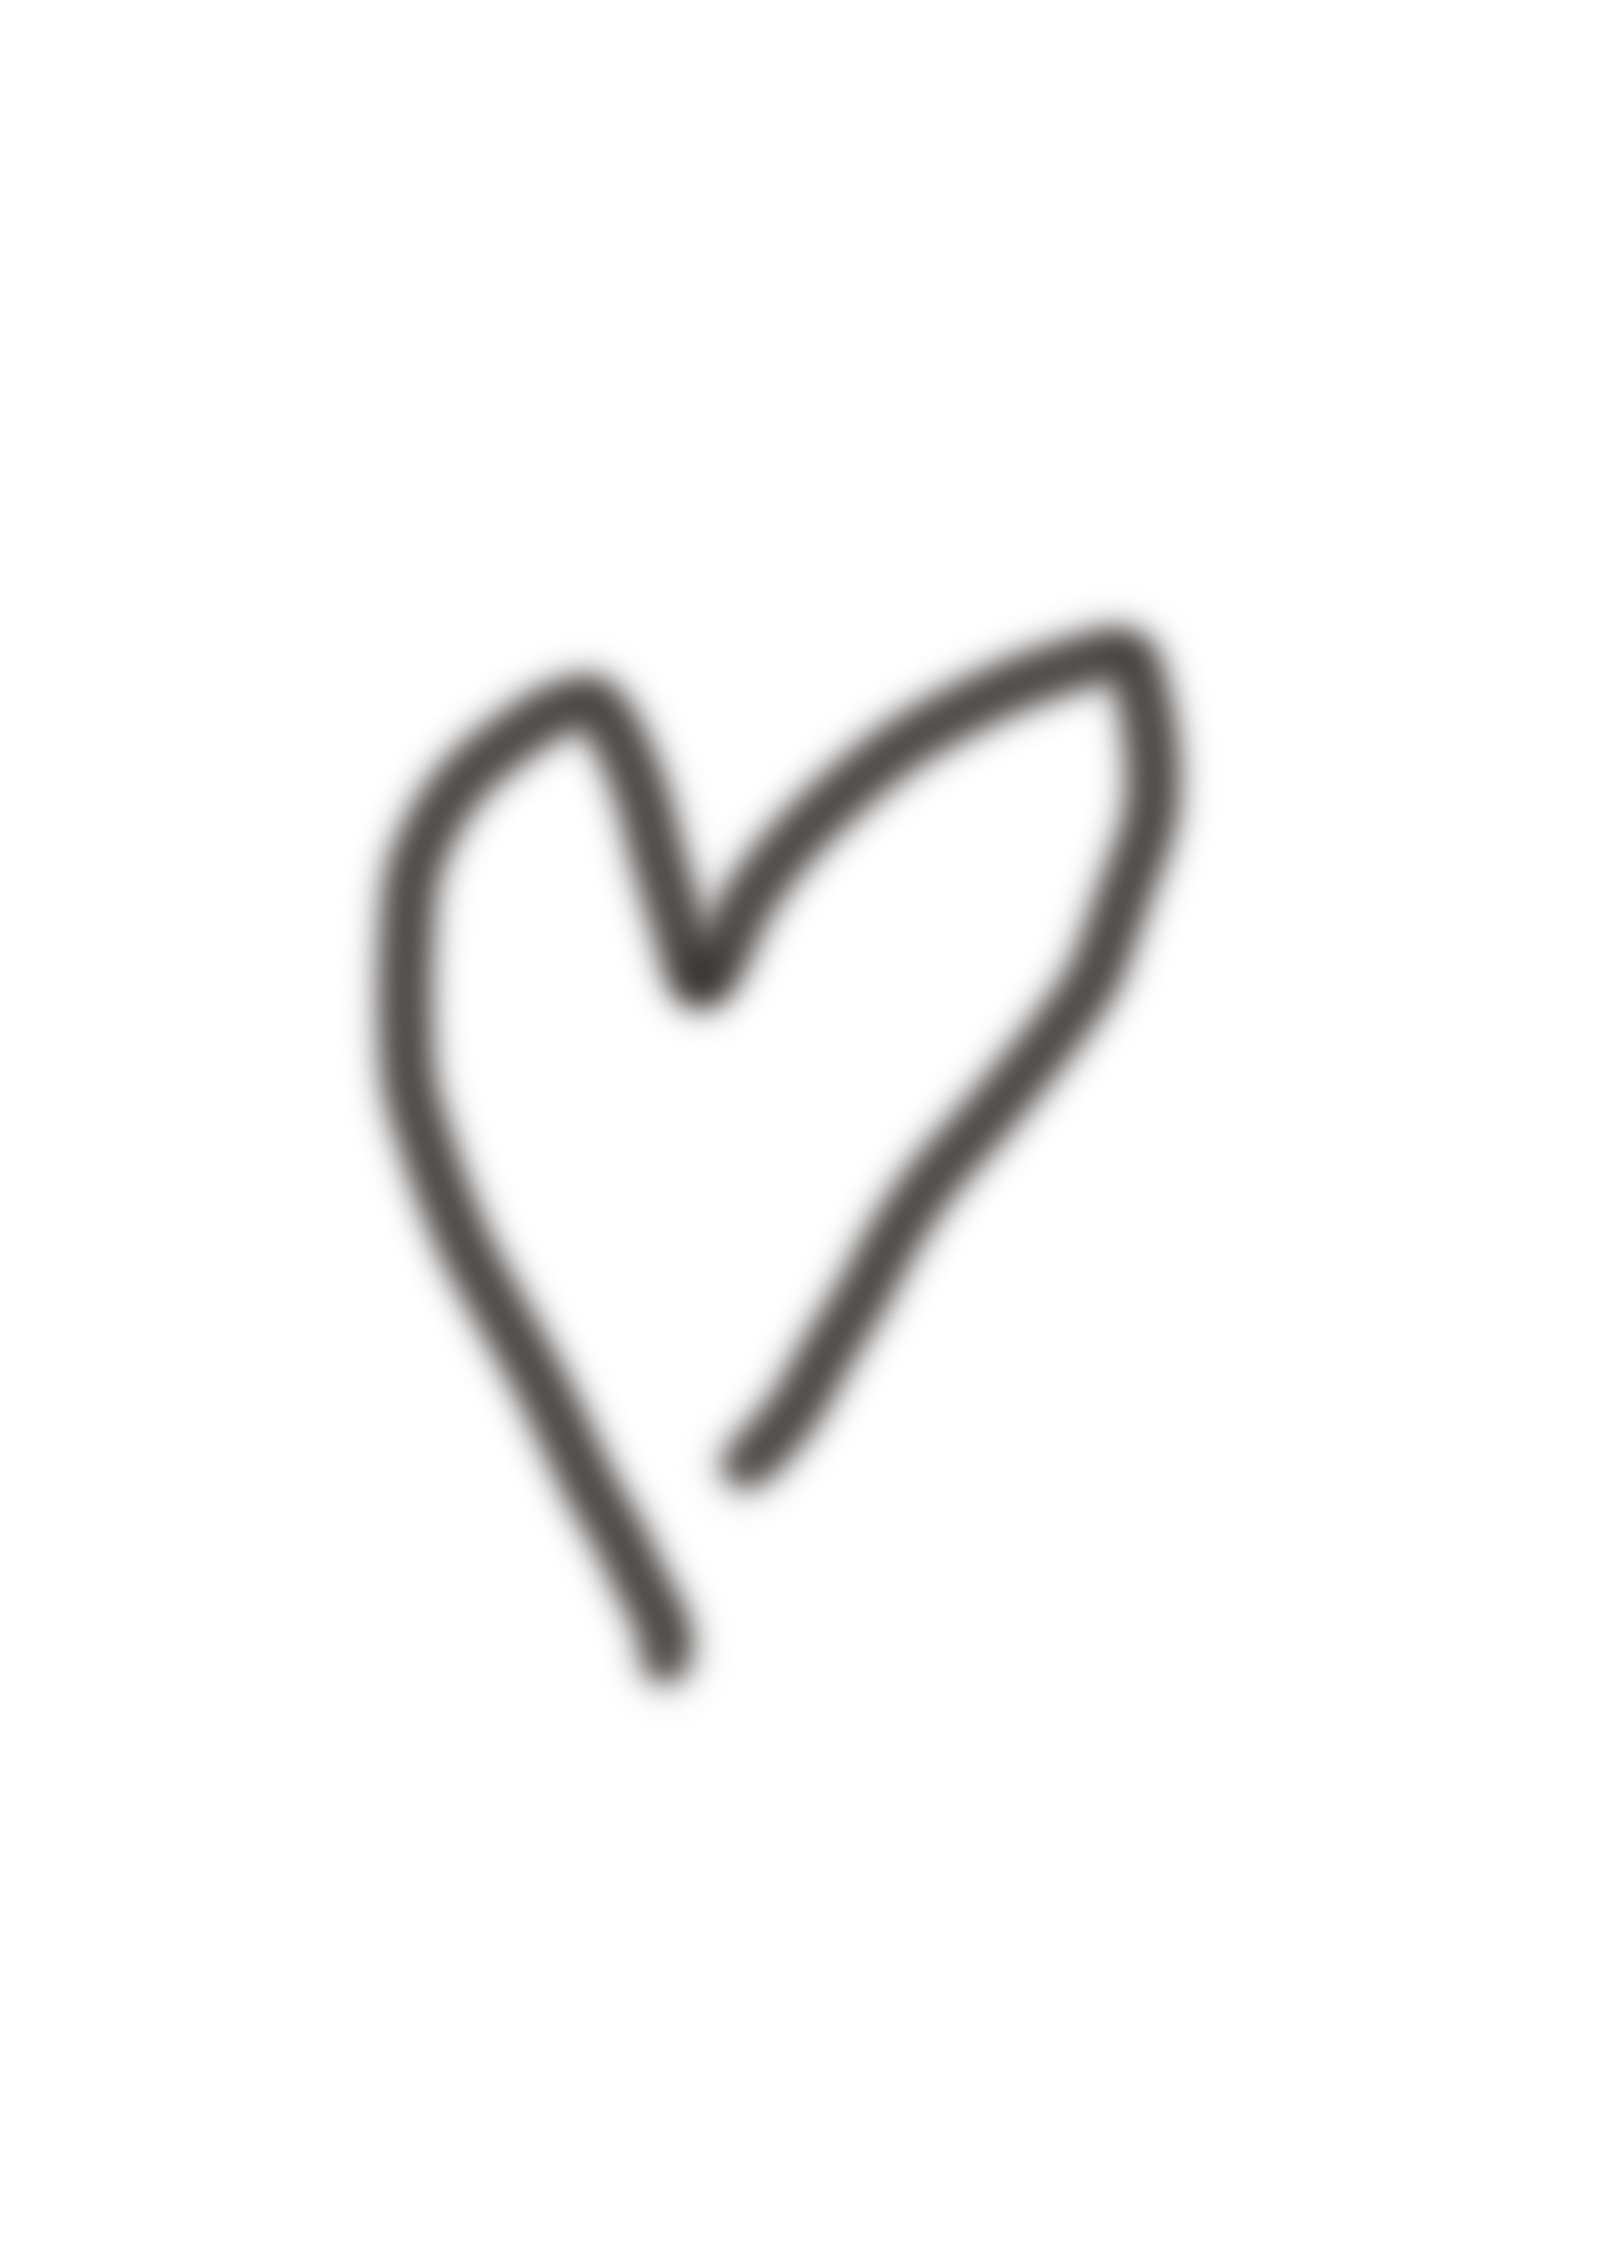
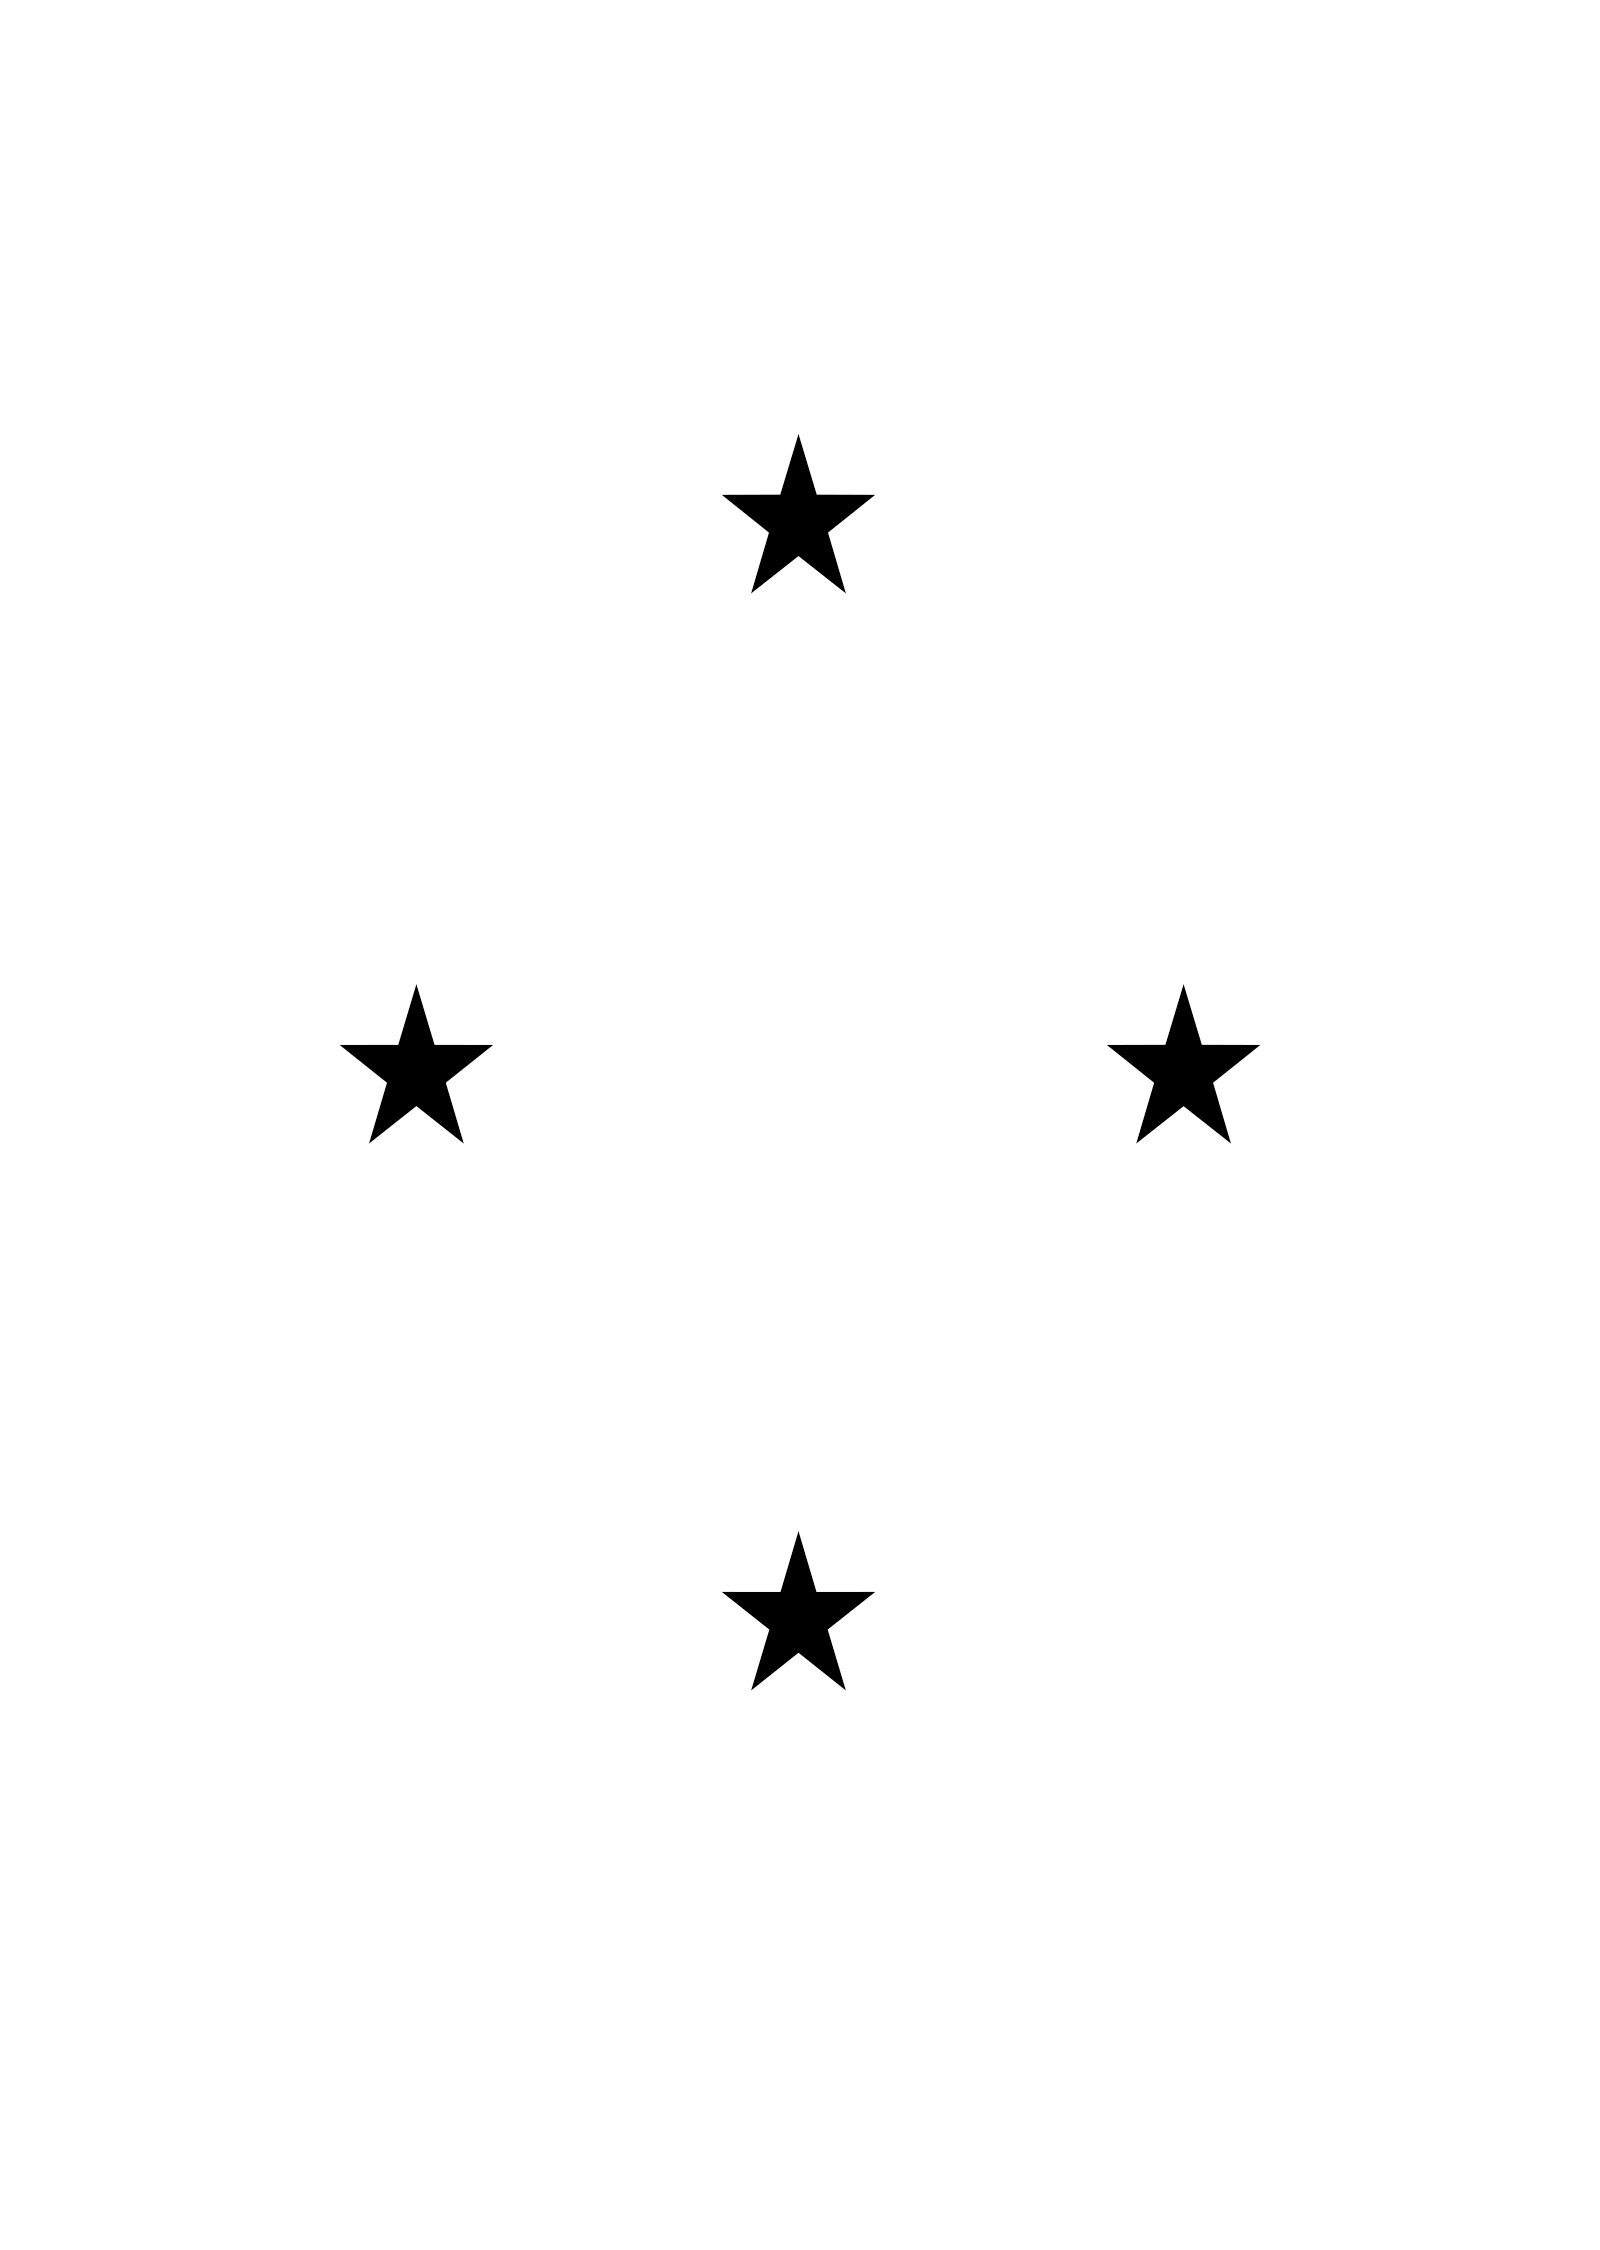
arreglos

Changed region(s): [[0.2188, 0.2489, 0.7812, 0.7778], [0.4375, 0.1867, 0.5312, 0.28]]

diff --git a/aboutme.html b/aboutme.html
@@ -195,7 +195,7 @@
                         </div>
                         <div class="col-7">
                             <p class="split grey">/Jun-Sep 2025<br>→Coonic Conmunica Mediatrader S.L.(Diseñadora Gráfica)
-                            <br>/Jun-Sep 2025<br>→Coonic Conmunica Mediatrader S.L.(Intership)</p>
+                            <br><br>/Jun-Sep 2025<br>→Coonic Conmunica Mediatrader S.L.(Intership)</p>
                         </div>
                         <div class="col"></div>
                     </div>
@@ -205,7 +205,7 @@
                         </div>
                         <div class="col-7">
                             <p class="split grey">/2022-2026<br>
-                            →Grado Universitario Diseño Gráfico y Multimedia, UDIT Universidad de Diseño, Innovación y tecnología, Madrid<br>/2020-2022<br>
+                            →Grado Universitario Diseño Gráfico y Multimedia, UDIT Universidad de Diseño, Innovación y tecnología, Madrid<br><br>/2020-2022<br>
                             →Bachillerato Artes, IES Isabel la Católica, Madrid </p>
                         </div>
                         <div class="col"></div>
@@ -215,7 +215,7 @@
                             <p class="split grey">Awards</p>
                         </div>
                         <div class="col-7">
-                            <p class="split grey">→Inspirathon 2024-Cuarto premio (Merchandising UDIT)<br>
+                            <p class="split grey">→Inspirathon 2024-Cuarto premio (Merchandising UDIT)<br><br>
                             →Inspirathon 2023-Primer premio (Amenities Hotel Thompson Madrid)</p>
                         </div>
                         <div class="col"></div>

diff --git a/js/aboutme.js b/js/aboutme.js
@@ -141,7 +141,7 @@
     // Función para verificar si un elemento es clickable
     function esClickable(elemento) {
       const selectores = [
-        'a', 'button', '.btn', 'input', 'textarea', 'select', 
+        'a', '.btn', 'input', 'textarea', 'select', 
         '.grid-item', '[href]', '[data-link]', '.project-link',
         '.proyecto-link', '[onclick]', '[role="button"]', '[id="mode-toggle"]'
       ];
@@ -326,5 +326,28 @@ document.addEventListener('DOMContentLoaded', () => {
         // ya no hay "once: true"
       });
     }
+  });
+});
+
+// EFECTO GIRAR 
+document.querySelectorAll('.rot').forEach((el) => {
+  const text = el.textContent;
+  el.setAttribute('aria-label', text);
+  el.textContent = '';
+
+  [...text].forEach((c, i) => {
+    const letter = c === ' ' ? '\u00A0' : c;
+
+    const ch = document.createElement('span');
+    ch.className = 'char';
+    ch.setAttribute('aria-hidden', 'true');
+    ch.dataset.char = letter;
+    ch.style.setProperty('--i', i);
+
+    const front = document.createElement('span');
+    front.textContent = letter;
+
+    ch.appendChild(front);
+    el.appendChild(ch);
   });
 });

diff --git a/css/home.css b/css/home.css
@@ -253,7 +253,7 @@ nav {
 
 
 .text-center {
-  width: 50%;
+  width: 30%;
 }
 nav {
   height: 55px;
@@ -794,11 +794,11 @@ body.menu-open nav {
 }
 
 .split-left {
-  right: 50%; /* pegado al centro por la derecha */
+  right: 30%; /* pegado al centro por la derecha */
 }
 
 .split-right {
-  left: 50%; /* pegado al centro por la izquierda */
+  left: 30%; /* pegado al centro por la izquierda */
 }
 
 .texto-contacto{
@@ -828,13 +828,11 @@ body.menu-open nav {
 }
 
 .ponteencontacto {
-  width: 20%;
+  flex: 30%;
 }
  
 /* Fila 1: el título, fijo en el centro y por encima */
 .texto-contacto > .row:first-child {
-  top: 50%;
-  transform: translateY(-50%);
   z-index: 2;
   pointer-events: none;
 }

diff --git a/contact.html b/contact.html
@@ -91,7 +91,7 @@
                     <p>LinkedIn</p>
                     <p>Behance</p>
                 </div>
-                <div class="col-6 d-flex flex-column gap-1 p-1">
+                <div class="col-6 d-flex flex-column  p-1">
                     <a href="https://www.instagram.com/sahuqui.jpeg?utm_source=ig_web_button_share_sheet&stkn=ZDNlZDc0MzIxNw==">@sahuqui___</a>
                     <a href="">evasahuquifz@gmail.com</a>
                     <a href="https://www.linkedin.com/in/eva-sahuquillo-fern%C3%A1ndez-860998330/?isSelfProfile=true">Eva Sahuquillo Fernández</a>

diff --git a/css/aboutme.css b/css/aboutme.css
@@ -87,7 +87,7 @@ h1 {
   font-size: 3.5rem;
   letter-spacing: -1px;
   line-height: 1.1;
-  color: var(--text-middle);
+  /* color: var(--text-middle); */
   /* text-indent: 2em; */
 }
 
@@ -207,7 +207,7 @@ a, button, .btn, .sol, #mode-toggle, .proyecto-link, [href] {
   }
 
   h1 {
-    font-size: 2rem;
+    font-size: 1.7rem;
   }
 
   h2 {
